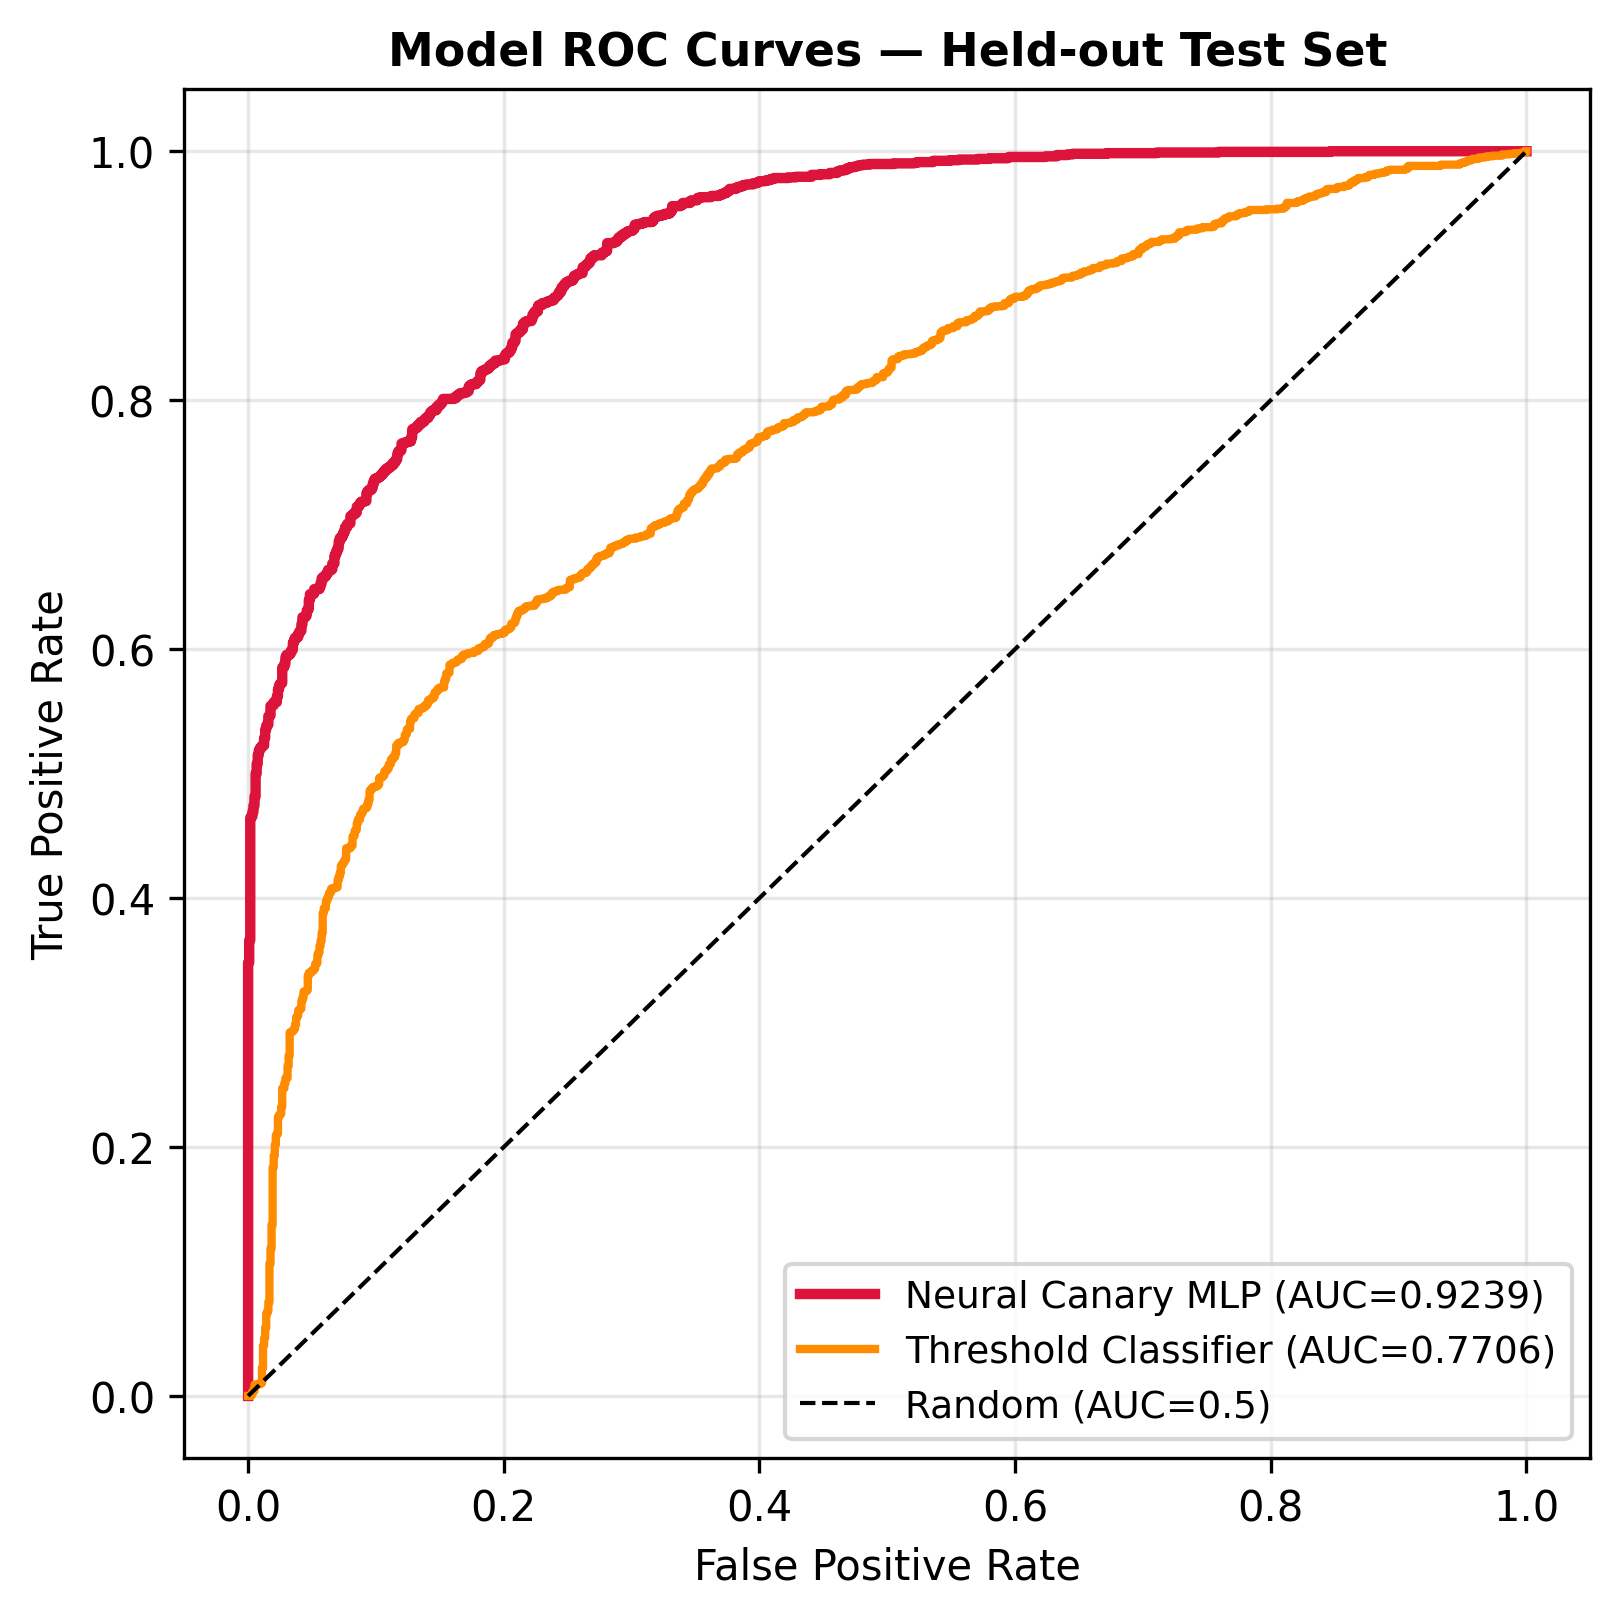
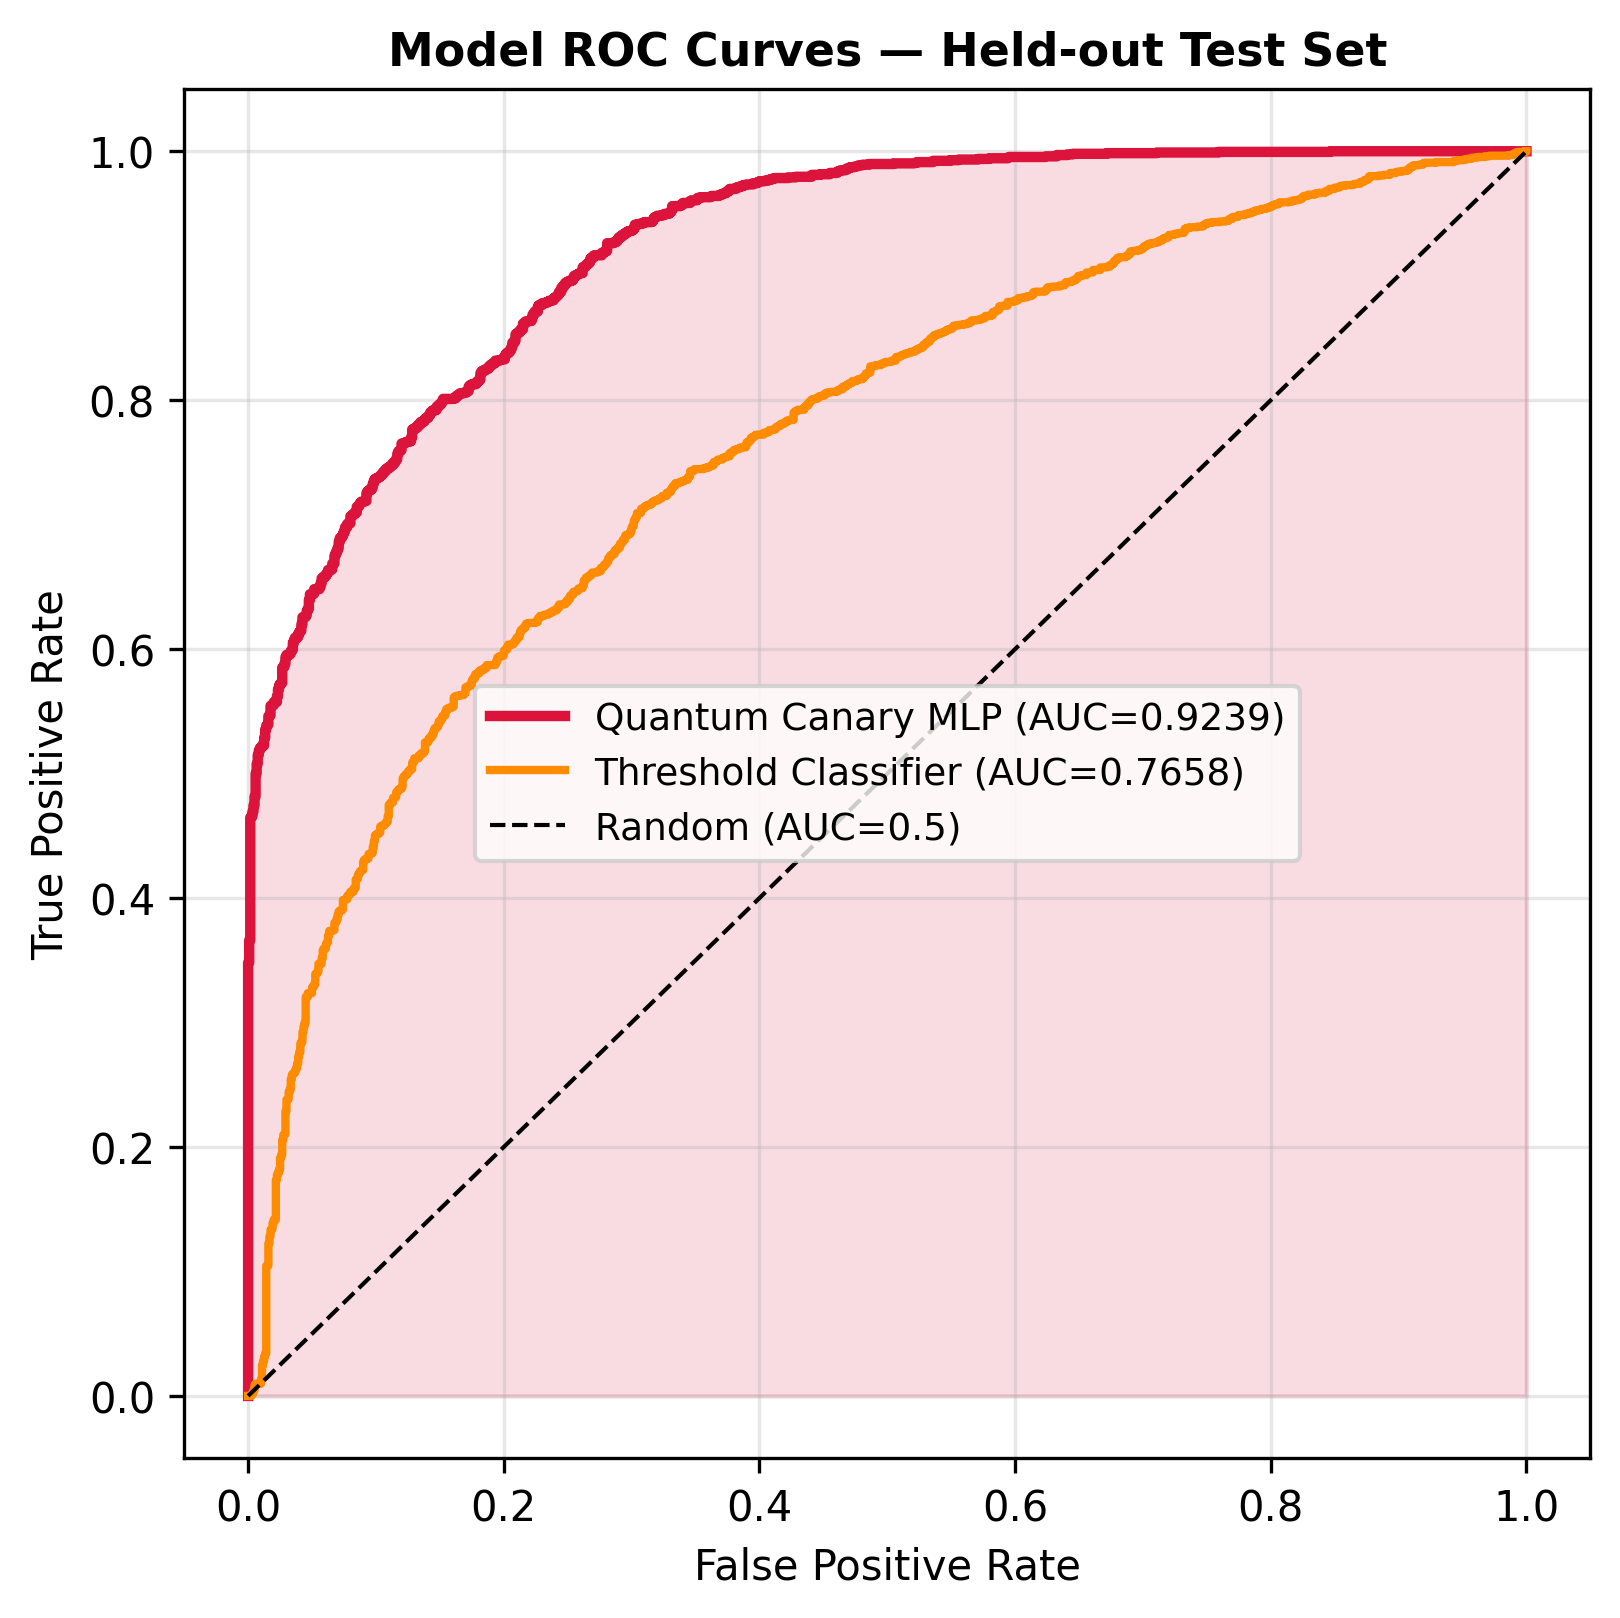
Update ROC plot label, shading and results
Add filled AUC area to ROC plot and rename the MLP label from 'Neural Canary MLP' to 'Quantum Canary MLP'. Refresh corresponding figure assets (fig_auc_comparison.png, fig_roc_test.png). Update evaluation metrics in results/evaluation_results.json: threshold_auc changed to 0.7658 and improvement_over_traditional changed to 20.6.

diff --git a/6_evaluate.py b/6_evaluate.py
@@ -120,8 +120,9 @@ fpr_mlp, tpr_mlp, _ = roc_curve(y_test, ensemble_preds)
 fpr_th,  tpr_th,  _ = roc_curve(y_test, thresh_scores_for_auc)
 
 fig, ax = plt.subplots(figsize=(5.5, 5.5))
+ax.fill_between(fpr_mlp, tpr_mlp, alpha=0.15, color='crimson')
 ax.plot(fpr_mlp, tpr_mlp, color='crimson',    lw=2.5,
-        label=f'Neural Canary MLP (AUC={auc})')
+        label=f'Quantum Canary MLP (AUC={auc})')
 ax.plot(fpr_th,  tpr_th,  color='darkorange', lw=2,
         label=f'Threshold Classifier (AUC={threshold_auc})')
 ax.plot([0,1],[0,1], 'k--', lw=1, label='Random (AUC=0.5)')
